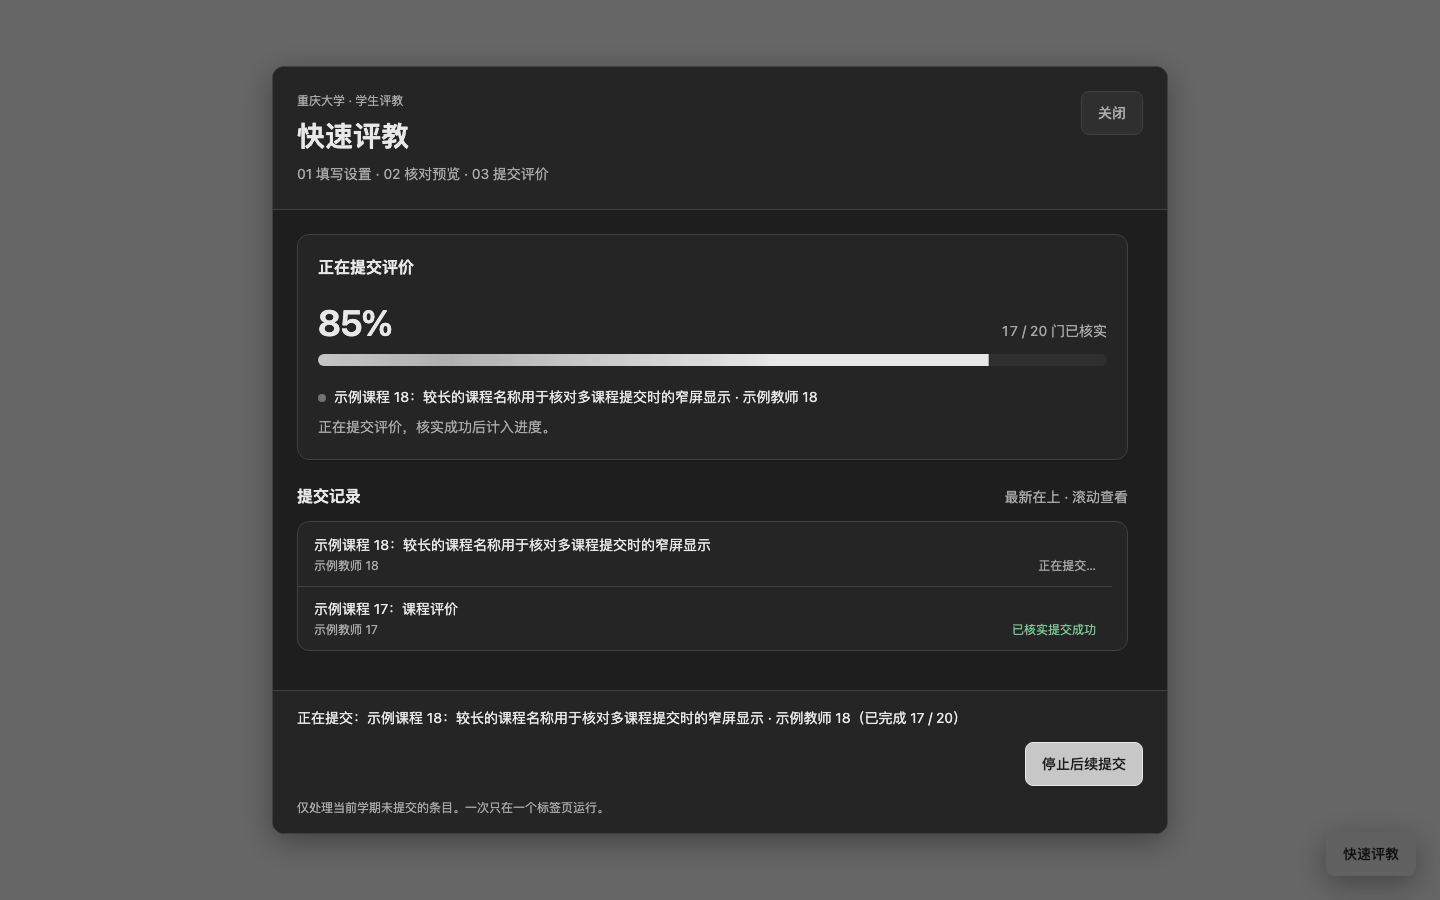
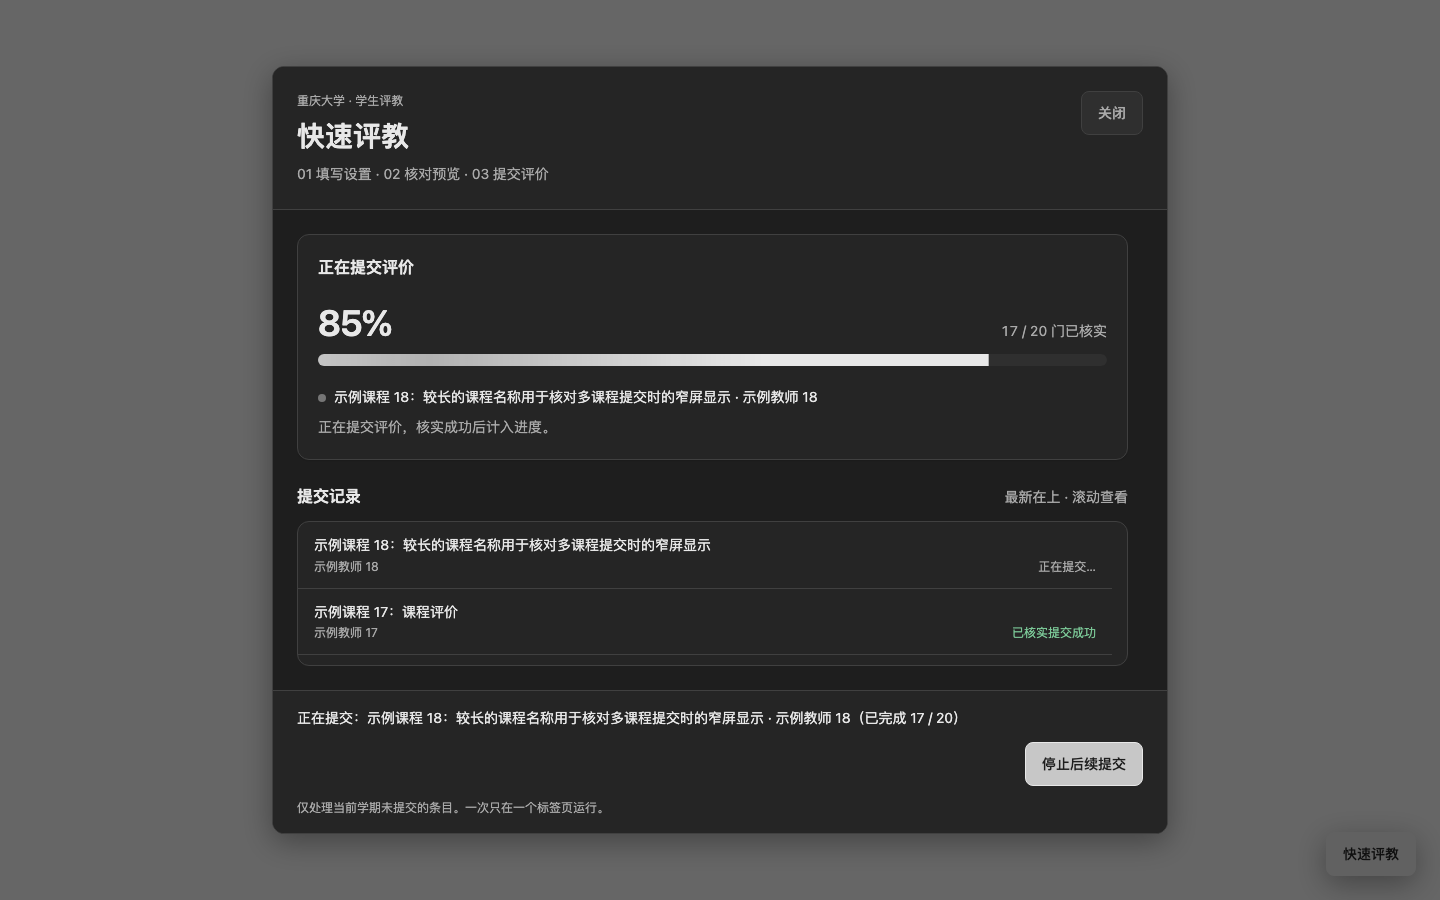
style: 自适应提交记录并统一下拉菜单主题

Changed region(s): [[0.2188, 0.6222, 0.7812, 0.7467], [0.7188, 0.6222, 0.75, 0.6533]]

diff --git a/tests/evaluation.spec.js b/tests/evaluation.spec.js
@@ -211,7 +211,7 @@ test('停止后等待当前请求核实，不启动下一条', async ({ page }, 
   await expect(records).toContainText('已核实提交成功');
 });
 
-test('20门课程的记录只占两行高度，最新在上且历史可滚动，新课程自动回到顶部', async ({ page }, testInfo) => {
+test('20门课程的记录窗口随空间伸缩，最新在上且历史可滚动，新课程自动回到顶部', async ({ page }, testInfo) => {
   await page.setViewportSize({ width: 1440, height: 900 });
   await page.emulateMedia({ colorScheme: 'dark' });
   let releaseEighteen;
@@ -238,6 +238,7 @@ test('20门课程的记录只占两行高度，最新在上且历史可滚动，
   await expect(rows.nth(1)).toContainText('示例教师 17');
   await expect(rows.nth(1)).toContainText('已核实提交成功');
   await expect(page.getByRole('progressbar')).toHaveAttribute('aria-valuenow', '17');
+  const heights = [];
   for (const width of [1440, 390, 320]) {
     await page.setViewportSize({ width, height: width === 1440 ? 900 : 740 });
     await records.scrollIntoViewIfNeeded();
@@ -245,15 +246,17 @@ test('20门课程的记录只占两行高度，最新在上且历史可滚动，
       viewport: el.clientHeight, row: el.firstElementChild.getBoundingClientRect().height,
       scroll: el.scrollHeight, width: el.clientWidth, contentWidth: el.scrollWidth,
     }));
-    expect(size.viewport).toBe(size.row * 2);
+    heights.push(size.viewport);
+    expect(size.viewport).toBeGreaterThanOrEqual(size.row);
+    expect(size.viewport).toBeLessThanOrEqual(256);
     expect(size.scroll).toBeGreaterThan(size.viewport);
     expect(size.contentWidth).toBe(size.width);
     await expect(rows.first()).toBeInViewport();
-    await expect(rows.nth(1)).toBeInViewport();
-    await expect(rows.nth(2)).not.toBeInViewport();
+    await expect(rows.last()).not.toBeInViewport();
     await expect(page.getByRole('button', { name: '停止后续提交' })).toBeInViewport();
     await page.screenshot({ path: testInfo.outputPath(`many-courses-${width}.png`) });
   }
+  expect(heights[0]).toBeGreaterThan(heights[1]);
   await records.focus();
   await page.keyboard.press('End');
   await expect.poll(() => records.evaluate(el => el.scrollHeight - el.clientHeight - el.scrollTop)).toBe(0);
@@ -266,7 +269,7 @@ test('20门课程的记录只占两行高度，最新在上且历史可滚动，
   await expect(records).toBeFocused();
   await expect.poll(() => records.evaluate(el => el.scrollTop)).toBe(0);
   await expect(rows.first()).toBeInViewport();
-  await expect(rows.nth(2)).not.toBeInViewport();
+  await expect(rows.last()).not.toBeInViewport();
   releaseNineteen();
   await expect(page.getByRole('status')).toHaveText('完成：20 / 20 个条目已核实提交成功。');
   await expect(rows).toHaveCount(20);
@@ -274,6 +277,56 @@ test('20门课程的记录只占两行高度，最新在上且历史可滚动，
   await expect(rows.first()).toContainText('已核实提交成功');
   expect(submissions.map(payload => payload.xsxkxxid)).toEqual(courses.map(c => c.id));
 });
+
+for (const colorScheme of ['light', 'dark']) {
+  test(`${colorScheme}下拉菜单适配主题和窄屏，鼠标与键盘选择保留表单行为`, async ({ page }, testInfo) => {
+    await page.emulateMedia({ colorScheme });
+    const { submissions } = await site(page);
+    await page.getByRole('button', { name: '快速评教', exact: true }).click();
+    const grade = page.getByLabel('满意度档位');
+    for (const width of [1440, 320]) {
+      await page.setViewportSize({ width, height: 900 });
+      await grade.click();
+      const option = page.getByRole('option', { name: '满意', exact: true });
+      await expect(option).toBeVisible();
+      const box = await option.boundingBox();
+      expect(box.height).toBeGreaterThanOrEqual(44);
+      expect(box.x).toBeGreaterThanOrEqual(0);
+      expect(box.x + box.width).toBeLessThanOrEqual(width);
+      const picker = await grade.evaluate(el => {
+        const style = getComputedStyle(el, '::picker(select)');
+        return { background: style.backgroundColor, radius: parseFloat(style.borderRadius) };
+      });
+      expect(picker.radius).toBeGreaterThan(0);
+      expect(picker.background).toBe(colorScheme === 'dark' ? 'oklch(0.265 0 0)' : 'oklch(1 0 0)');
+      await page.screenshot({ path: testInfo.outputPath(`select-${colorScheme}-${width}.png`) });
+      await option.click();
+      await expect(grade).toHaveValue('B');
+      await expect(grade).toBeFocused();
+    }
+    await grade.press('Space');
+    await expect(page.getByRole('option', { name: '满意', exact: true })).toBeVisible();
+    await page.keyboard.press('ArrowDown');
+    await page.keyboard.press('Enter');
+    await expect(grade).toHaveValue('C');
+    await grade.press('Space');
+    await page.keyboard.press('Escape');
+    await expect(page.getByRole('option', { name: '满意', exact: true })).toBeHidden();
+    await expect(page.getByRole('dialog')).toBeVisible();
+    await expect(grade).toBeFocused();
+    await page.getByLabel('综合评分').fill('90');
+    await page.getByRole('button', { name: '下一步' }).click();
+    const first = page.getByRole('listitem').first();
+    await first.locator('summary').click();
+    await first.getByLabel('教学设计').click();
+    await first.getByRole('option', { name: '不满意 · 6 / 15', exact: true }).click();
+    await expect(first.getByLabel('教学设计')).toHaveValue('D');
+    expect(submissions).toEqual([]);
+    await page.getByRole('button', { name: '开始刷课' }).click();
+    await expect(page.getByRole('status')).toHaveText('完成：2 / 2 个条目已核实提交成功。');
+    expect(submissions[0].ratings).toEqual([{ zbid: 'design', score: 6 }, { zbid: 'method', score: 15 }]);
+  });
+}
 
 test('进度只在回读核实后增长，完成后到达100%并停止动效', async ({ page }, testInfo) => {
   await page.setViewportSize({ width: 1440, height: 900 });

diff --git a/jxzljc.user.js b/jxzljc.user.js
@@ -151,6 +151,7 @@
       .eyebrow { font-size: var(--text-xs); color: var(--muted-foreground); margin-bottom: var(--space-2); }
       .description { color: var(--muted-foreground); font-size: var(--text-sm); margin-top: var(--space-2); }
       .content { flex: 1; padding: var(--space-6); display: grid; grid-template-columns: minmax(0, 1fr); align-content: start; gap: var(--space-6); min-height: 0; overflow-y: auto; overscroll-behavior: contain; scrollbar-gutter: stable; }
+      .content:has(#progress-step:not([hidden])) { grid-template-rows: auto minmax(7rem, 1fr); }
       .section-heading { display: flex; align-items: baseline; justify-content: space-between; gap: var(--space-3); margin-bottom: var(--space-3); }
       .card { border: 1px solid var(--border); border-radius: var(--radius-lg); background: var(--surface); box-shadow: var(--shadow-card); padding: var(--space-5); }
       fieldset { margin: 0; border: 0; display: grid; grid-template-columns: minmax(0, 1fr) minmax(0, 1fr); gap: var(--space-5); min-width: 0; }
@@ -159,6 +160,18 @@
       input, select, textarea { width: 100%; min-width: 0; min-height: 44px; padding: var(--space-2) var(--space-3); border: 1px solid var(--input); border-radius: var(--radius); color: var(--foreground); background: var(--surface); font-size: max(16px, var(--text-base)); font-weight: 400; }
       :is(input, textarea)::placeholder { color: var(--muted-foreground); opacity: 1; }
       :is(input, select, textarea):disabled { background: var(--muted); color: var(--muted-foreground); cursor: not-allowed; }
+      @supports (appearance: base-select) {
+        select, select::picker(select) { appearance: base-select; }
+        select { align-items: center; cursor: pointer; }
+        select::picker(select) { padding: var(--space-1); margin-block: var(--space-1); border: 1px solid var(--border); border-radius: var(--radius-lg); background: var(--surface); color: var(--foreground); box-shadow: var(--shadow-popover); max-height: min(24rem, 60dvh); overflow-y: auto; }
+        select::picker-icon { content: ''; width: 8px; height: 8px; margin-inline-end: var(--space-1); border-right: 2px solid currentColor; border-bottom: 2px solid currentColor; color: var(--muted-foreground); transform: rotate(45deg); }
+        select:open::picker-icon { transform: rotate(225deg); }
+        option { min-height: 44px; padding: var(--space-2) var(--space-3); border-radius: var(--radius); font: inherit; gap: var(--space-3); }
+        option:checked { background: var(--muted); font-weight: 500; }
+        option:is(:hover, :focus-visible) { background: var(--accent); outline: 2px solid var(--ring); outline-offset: -2px; }
+        option::checkmark { order: 1; margin-left: auto; color: var(--foreground); }
+        option[value=""] { color: var(--muted-foreground); }
+      }
       textarea { resize: vertical; min-height: 6rem; }
       .muted { color: var(--muted-foreground); font-size: var(--text-sm); font-weight: 400; }
       .count { color: var(--muted-foreground); font-size: var(--text-sm); font-variant-numeric: tabular-nums; }
@@ -189,8 +202,9 @@
       .result { font-size: var(--text-xs); color: var(--muted-foreground); background: var(--muted); border-radius: var(--radius-sm); padding: var(--space-1) var(--space-2); }
       .result[data-state="success"] { color: var(--success); }
       .result[data-state="error"] { color: var(--destructive); }
-      #records { max-height: calc(var(--space-8) * 4 + 2px); overflow-y: auto; overscroll-behavior: contain; scrollbar-gutter: stable; }
-      #records li { height: calc(var(--space-8) * 2); padding: var(--space-2) var(--space-4); display: grid; align-content: center; }
+      #records-step { display: flex; flex-direction: column; min-height: 0; max-height: min(16rem, 32dvh); }
+      #records { min-height: 0; overflow-y: auto; overscroll-behavior: contain; scrollbar-gutter: stable; }
+      #records li { padding: var(--space-3) var(--space-4); display: grid; align-content: center; }
       .record-name { font-size: var(--text-sm); overflow: hidden; white-space: nowrap; text-overflow: ellipsis; }
       .record-detail { display: flex; align-items: baseline; gap: var(--space-2); }
       #records .teacher { flex: 1; min-width: 0; max-width: none; }

diff --git a/docs/design.md b/docs/design.md
@@ -12,7 +12,9 @@
 
 固定头尾和稳定的弹窗高度用于分步切换，内容区独立滚动。初始仅设置面板与「下一步」；预览显示清单、「上一步」和「开始刷课」；提交显示进度与记录，突出停止动作，结束后焦点返回刷新按钮。返回设置保留预览状态，修改统一设置才使其失效。v0.3.0 使用原生 details/summary 展开课程，复选框作为独立控件放在展开控件外；CSS仅绘制展开指示。收起时省略过长名称，展开可读完整名称和教师。选择与编辑共用提交锁；校验失败会展开课程并聚焦错误字段。
 
-提交阶段使用独立的只读记录区，最多两行高度，按处理顺序倒序排列；新课程从顶部进入并将滚动位置重置至顶部，旧记录可通过触屏、滚轮或键盘查看。入口使用180ms淡入与8px位移，沿用键盘与减少动态效果的关闭规则。长课程名和教师名在记录行中省略，完整文本仍提供给辅助技术与标题提示；当前课程在进度卡内完整换行显示。失败记录保留，未开始处理的课程不列入记录。
+提交阶段使用独立的只读记录区，随弹窗剩余空间调整高度，并设上限以保持紧凑；按处理顺序倒序排列，新课程从顶部进入并将滚动位置重置至顶部，旧记录可通过触屏、滚轮或键盘查看。入口使用180ms淡入与8px位移，沿用键盘与减少动态效果的关闭规则。长课程名和教师名在记录行中省略，完整文本仍提供给辅助技术与标题提示；当前课程在进度卡内完整换行显示。失败记录保留，未开始处理的课程不列入记录。
+
+满意度和逐项指标仍使用原生 select。支持 `appearance: base-select` 的浏览器通过 `::picker(select)` 复用主题菜单颜色、圆角、阴影与选中标记；保留原生表单验证、焦点及键盘操作。不支持时回退为原生选择菜单，未增加运行时依赖。参考 [MDN 的可定制 select](https://developer.mozilla.org/en-US/docs/Learn_web_development/Extensions/Forms/Customizable_select)。
 
 ## 自动检查
 
@@ -26,13 +28,14 @@ npm test
 
 `check:design` 是适用于单文件脚本的有限检查：保证内嵌 CSS 与本地主题包一致、业务样式不使用原始颜色／全属性过渡、引用的主题变量存在。它不等同于 React UI 包的完整消费检查器，也不证明视觉、可访问性或真实接口正确；需结合下面的页面检查。
 
-[桌面浅色设置](screenshots/settings-light.png) · [课程选择清单](screenshots/course-list-light.png) · [手机深色编辑](screenshots/preview-dark-mobile.png) · [提交进度](screenshots/progress-dark.png) · [手机进度](screenshots/progress-dark-mobile.png)（均为合成数据）
+[桌面浅色设置](screenshots/settings-light.png) · [课程选择清单](screenshots/course-list-light.png) · [手机深色编辑](screenshots/preview-dark-mobile.png) · [提交进度](screenshots/progress-dark.png) · [手机进度](screenshots/progress-dark-mobile.png) · [深色下拉菜单](screenshots/select-dark.png) · [手机浅色菜单](screenshots/select-light-mobile.png)（均为合成数据）
 
 ## 2026-10-19 验收范围
 
 - 本地构建、语法与主题同步检查通过；另使用 CQU Design 源码的官方 `checkSource` 检查业务代码（排除原样内嵌的主题区），无违规。
-- 受控 HTTP 的 Chromium 测试：28 项；覆盖分步往返、勾选、全选、逐课编辑的请求内容与草稿保护、收起错误定位、未选项排除校验，以及已发送未回读时不增加进度、部分成功与完成计数、循环结束、键盘与减少动态效果；不连接学校服务器。
-- 20门课程回归：记录区始终最多两行高度，当前课程置顶、历史可滚动、下一门自动回顶、全部请求顺序不变；检查1440／390／320px布局与键盘浏览。相同场景在旧版本失败，旧版仍把未处理条目和整份编辑表单显示为提交记录。
+- 受控 HTTP 的 Chromium 测试：30 项；覆盖分步往返、勾选、全选、逐课编辑的请求内容与草稿保护、收起错误定位、未选项排除校验，以及已发送未回读时不增加进度、部分成功与完成计数、循环结束、键盘与减少动态效果；不连接学校服务器。
+- 20门课程回归：记录区随桌面和窄屏可用空间伸缩，当前课程置顶、历史可滚动、下一门自动回顶、全部请求顺序不变；检查1440／390／320px布局与键盘浏览。
+- 浅深主题的下拉菜单：1440／320px展开截图、44px选项、不溢出视口、鼠标与键盘选择、Esc只关闭菜单、选择后实际提交值正确；覆盖统一满意度和逐项指标选择。
 - 320／390／768／1440px × 浅深主题：长标题重排、无横向溢出、操作区可达、44px 控件与16px 输入下限；保存对应截图供视觉检查。
 - 系统主题即时变化及刷新；不会修改学校主题或写入 localStorage。
 - 键盘打开／校验／Enter 预览／Escape 关闭与焦点恢复；慢加载、空清单、窄屏停止、提交失败后的刷新入口；超长服务端错误在反馈区完整滚动显示，恢复按钮仍可见。

diff --git a/README.md b/README.md
@@ -13,7 +13,7 @@ v0.3.0 使用「填写设置 → 核对预览 → 提交进度」分步界面，
 3. 选择满意度档位、综合评分并填写评语。脚本不预选实际评价内容；评语可留空。
 4. 点击右下角「下一步」进入预览。默认勾选全部待评课程，可逐门取消或使用全选框。点击课程行或展开符号，查看完整课程名、教师及评价内容；各项指标、综合评分和评语都可单独调整。已有内容标明「保留草稿」，手动调整后标明「本次修改」。
 5. 可通过「上一步」返回设置。核对已选数量和内容后，点击「开始刷课」提交评价。只提交勾选的课程；如有无效评分，会展开并定位到该字段，整个批次暂不提交。
-6. 提交页显示当前课程、百分比和提交记录。记录区最多显示两行，当前课程在最上方，历史记录可滚动查看；开始下一门时自动回到顶部。每条提交后重新查询服务器状态，核实成功后才增加进度并继续下一条。
+6. 提交页显示当前课程、百分比和提交记录。记录区按可用空间自动调整高度，当前课程在最上方，历史记录可滚动查看；开始下一门时自动回到顶部。每条提交后重新查询服务器状态，核实成功后才增加进度并继续下一条。
 
 收起、取消勾选或返回上一步会保留本次编辑。修改统一设置后再进入下一步会重置勾选和逐课修改；刷新页面也不会保存这些临时设置。
 

diff --git a/docs/quick-evaluation-plan.md b/docs/quick-evaluation-plan.md
@@ -15,7 +15,7 @@
 
 交互采用分步界面：初始只有一个设置面板（满意度、综合分、评语），右下角「下一步」切换至预览；预览底部为「上一步」和「开始刷课」。往返保留勾选与逐课编辑，修改统一设置或刷新才重置。切换有方向提示和淡入；提交阶段的动效进度条只按服务器核实成功的课程数量推进，保留停止、部分失败与结果不明确状态。键盘和减少动态效果模式下即时显示。
 
-提交记录与可编辑预览分开：固定两行高度，当前课程置顶，新课程进入时滚回顶部。历史记录继续保留，可用滚轮、触屏或键盘滚动查看；失败项保留在最上方，尚未处理的课程不混入记录。
+提交记录与可编辑预览分开：按可用空间自适应高度的小滚动窗口，当前课程置顶，新课程进入时滚回顶部。历史记录继续保留，可用滚轮、触屏或键盘滚动查看；失败项保留在最上方，尚未处理的课程不混入记录。
 
 ## 范围与验收
 
